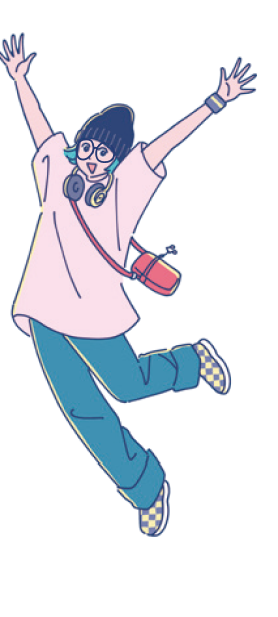
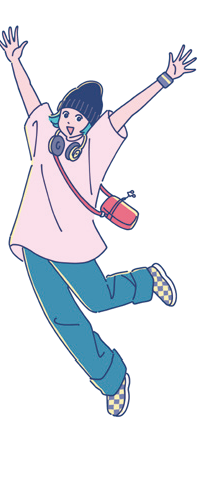
ダンスショーケースコンテスト復活そして内容変更

diff --git a/src/components/SpecialStageDanceContestBlock.tsx b/src/components/SpecialStageDanceContestBlock.tsx
@@ -1,15 +1,49 @@
 import Image from "next/image";
 import { VenueAreaButton } from "@/components/VenueAreaButton";
 import { withBasePath } from "@/lib/basePath";
-import type { SpecialStage } from "@/lib/specialStages";
+import type { SpecialStage, SpecialStageGuest } from "@/lib/specialStages";
 
 interface SpecialStageDanceContestBlockProps {
   stage: SpecialStage;
 }
 
+function GuestCard({ guest }: { guest: SpecialStageGuest }) {
+  const imageAlt = guest.imageAlt ?? `${guest.label} ${guest.name}`;
+
+  return (
+    <article className="flex flex-col gap-4 min-[1061px]:flex-row min-[1061px]:gap-0">
+      <div className="w-full shrink-0 min-[1061px]:w-[304px]">
+        <Image
+          src={withBasePath(guest.image)}
+          alt={imageAlt}
+          width={607}
+          height={454}
+          className="h-auto w-full rounded-[20px]"
+          sizes="(max-width: 768px) 100vw, (max-width: 1060px) 45vw, 304px"
+        />
+      </div>
+
+      <div className="flex min-w-0 flex-1 flex-col min-[1061px]:ml-8 min-[1061px]:border-l min-[1061px]:border-foreground min-[1061px]:pl-8">
+        <p className="text-xs font-medium leading-8 text-foreground">{guest.role}</p>
+        <p className="text-xl font-bold leading-8 text-foreground sm:text-2xl">
+          {guest.label}　{guest.name}
+        </p>
+        <span className="mt-1 inline-flex h-[23px] w-[115px] items-center justify-center rounded-[20px] bg-[#969696] text-sm font-bold text-white">
+          プロフィール
+        </span>
+        <p className="mt-3 text-[13px] font-medium leading-[21px] text-foreground">
+          {guest.bio}
+        </p>
+      </div>
+    </article>
+  );
+}
+
 export function SpecialStageDanceContestBlock({
   stage,
 }: SpecialStageDanceContestBlockProps) {
+  const guests = stage.guests ?? [];
+
   const illustration = stage.illustration ? (
     <Image
       src={withBasePath(stage.illustration)}
@@ -50,6 +84,14 @@ export function SpecialStageDanceContestBlock({
             label={stage.button.label}
             external={stage.button.external}
           />
+        </div>
+      ) : null}
+
+      {guests.length > 0 ? (
+        <div className="mt-10 grid grid-cols-1 gap-10 md:grid-cols-2 md:gap-6 min-[1061px]:mt-14 min-[1061px]:gap-x-16 min-[1061px]:gap-y-12">
+          {guests.map((guest) => (
+            <GuestCard key={`${guest.label}-${guest.name}`} guest={guest} />
+          ))}
         </div>
       ) : null}
     </article>

diff --git a/src/lib/specialStages.ts b/src/lib/specialStages.ts
@@ -24,6 +24,16 @@ export type SpecialStageButton = {
   external?: boolean;
 };
 
+export type SpecialStageGuest = {
+  label: string;
+  name: string;
+  role: string;
+  bio: string;
+  image: string;
+  imageSp?: string;
+  imageAlt?: string;
+};
+
 export type SpecialStage = {
   id: string;
   dateBar?: {
@@ -49,6 +59,7 @@ export type SpecialStage = {
   illustration?: string;
   illustrationAlt?: string;
   button?: SpecialStageButton;
+  guests?: SpecialStageGuest[];
 };
 
 export function getSpecialStages(): SpecialStage[] {
